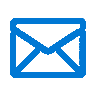
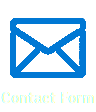
tidied up css, improved accessibility

diff --git a/src/Components/HeaderSection.js b/src/Components/HeaderSection.js
@@ -14,10 +14,10 @@ const Links = ({showForm, setShowForm}) => {
         <AboutMe />
         <br />
         <nav>
-        <ul>
-            <li><a href="https://github.com/aagb1884"><img src="images/icons8-github-96.png" alt="github" style={{ width: '50%' }} ></img></a></li>
-            <li><a href="https://www.linkedin.com/in/andrew-blair-3604a0273/"><img src="images/icons8-linkedin-96.png" alt="linked-in" style={{ width: '50%' }} ></img></a></li>
-            <li><button className='contact-form-header-button' onClick={displayForm} ><img src="images/icons8-email-96.png" alt="contact-form" style={{ width: '50%' }} ></img></button></li>
+        <ul className="links">
+            <li><a href="https://github.com/aagb1884"><img src="images/icons8-github-96.png" title="Github Profile" alt="github" style={{ width: '50%' }} ></img></a></li>
+            <li><a href="https://www.linkedin.com/in/andrew-blair-3604a0273/"><img src="images/icons8-linkedin-96.png" title="LinkedIn Profile" alt="linked-in" style={{ width: '50%' }} ></img></a></li>
+            <li><button className='contact-form-header-button' onClick={displayForm} ><img src="images/icons8-email-96.png" title="Contact Form" alt="contact-form" style={{ width: '50%' }} ></img></button></li>
         </ul>  
         </nav>
         <br />

diff --git a/src/Components/AppsFolder/BigFinishGenerator/BFApp.css b/src/Components/AppsFolder/BigFinishGenerator/BFApp.css
@@ -25,7 +25,7 @@
   position: fixed;
   z-index:1;
   width: 100%;
-  height: 150px;
+  height: 125px;
   top: 0;
   background-color: #972C34;
   color: white;
@@ -65,13 +65,15 @@ header > h3 {
 .line {
   margin: 10px;
   font-size: 5rem;
-  padding-bottom: 0.6%;
+  padding-bottom: 0.1%;
   font-weight: lighter;
 }
 
 .clear-all-button{
   margin-top: 5px;
   background-color: #972C34;
+  color: white;
+  padding: 5px;
 }
 
 .randomiser {
@@ -129,18 +131,20 @@ img.location-gif{
   position: fixed;
   bottom: 0;
   width: 100%;
-  height: 100px;
+  height: 70px;
   z-index: 999;
 }
 
 
 .bfbutton{
   background-color: #972C34;
+  color: white;
   width: 200px;
   position: relative;
   top: 0;
   left: 0;
   margin-bottom: 5px;
+  padding: 5px;
 }
 
 .randomiser-buttons{
@@ -151,7 +155,7 @@ img.location-gif{
 
 .main-character, .location, .villain, .supporting-character{
   text-align: center;
-  line-height: 1.5;
+  line-height: 1;
 }
 
 @media only screen and (max-width: 650px) {

diff --git a/src/Components/AppsFolder/AppsLandingPage.js b/src/Components/AppsFolder/AppsLandingPage.js
@@ -71,7 +71,7 @@ const AppsLandingPage = () => {
                 </section>
             </div>
             <div className="ko-fi">
-                 <a href='https://ko-fi.com/W7W1URM7B' target='_blank'><img height='36' src='https://storage.ko-fi.com/cdn/kofi4.png?v=3' border='0' alt='Buy Me a Coffee at ko-fi.com' /></a>
+                 <a href='https://ko-fi.com/W7W1URM7B' target='_blank' rel="noopener noreferrer"><img height='36' src='https://storage.ko-fi.com/cdn/kofi4.png?v=3' border='0' alt='Buy Me a Coffee at ko-fi.com' /></a>
             </div>
             <div className="landing-footer">
             <Footer />  

diff --git a/src/Components/AppsFolder/WesleySnopes/Containers/WesleyContainer.js b/src/Components/AppsFolder/WesleySnopes/Containers/WesleyContainer.js
@@ -33,6 +33,8 @@ const WesleyContainer = () => {
     const [userQuery, setUserQuery] = useState('');
     const [buttonClicked, setButtonClicked] = useState(false);
 
+    console.log(userQuery)
+
     function get_random_response() {
         const randomIndex = Math.floor(Math.random()* imgsrcs.length);
         const selectedImage = imgsrcs[randomIndex]
@@ -52,7 +54,7 @@ const WesleyContainer = () => {
 
       useEffect(()=>{
         if (buttonClicked) {
-            get_random_response()
+            get_random_response();
         }
     }, [get_random_response])
 

diff --git a/src/Components/TabComponent/Tabs.js b/src/Components/TabComponent/Tabs.js
@@ -40,7 +40,7 @@ const Tabs = () => {
         </div>
       </div>
       <div className="ko-fi">
-        <a href='https://ko-fi.com/W7W1URM7B' target='_blank'><img height='36' src='https://storage.ko-fi.com/cdn/kofi4.png?v=3' border='0' alt='Buy Me a Coffee at ko-fi.com' /></a>
+        <a href='https://ko-fi.com/W7W1URM7B' target='_blank' rel="noreferrer"><img height='36' src='https://storage.ko-fi.com/cdn/kofi4.png?v=3' border='0' alt='Buy Me a Coffee at ko-fi.com' /></a>
         </div>
     </div>
   );

diff --git a/src/App.css b/src/App.css
@@ -32,6 +32,10 @@ font-size: 50px;
   text-align: center;
   }
 
+.links{
+  justify-content: center;
+  margin-left: 15px;
+}
 .header-section > nav > ul {
   list-style: none;
   display: flex;
@@ -326,6 +330,9 @@ li{
 @media (max-width: 500px) {
   .slide-image {
     width: 500px;
+  }
+  .links{
+    margin-left: 75px;
   }
 }
 

diff --git a/public/index.html b/public/index.html
@@ -33,7 +33,7 @@
     <meta name="theme-color" content="#000000" />
     <meta
       name="portfolio"
-      content="andrew blair's porttfolio created using create-react-app"
+      content="andrew blair's portfolio created using create-react-app"
     />
     <link rel="manifest" href="%PUBLIC_URL%/manifest.json" />
   

diff --git a/src/Components/AppsFolder/WesleySnopes/WesleyApp.css b/src/Components/AppsFolder/WesleySnopes/WesleyApp.css
@@ -77,11 +77,15 @@
   font-size: xx-large;
   border-radius: 5px;
   box-shadow: 2px 4px #aa7012;
+  padding: 5px;
 }
 
 .clear-button{
   background-color:#ffb338;
   color: #1b1b1b;
+  max-width: 50px;
+  width: auto;
+  padding: 5px;
 }
 
 .wesley-image-section{

diff --git a/src/Components/AppsFolder/EurovisionBingo/Components/cliche.css b/src/Components/AppsFolder/EurovisionBingo/Components/cliche.css
@@ -417,6 +417,9 @@ header {
     height: 180%;
     
   }
+  .euro-btn {
+    font-size: large;
+   }
 }
 
 
@@ -427,9 +430,7 @@ header {
     .animate-character{
       min-height: 42px;
    }
-   .euro-btn{
-    font-size: large;
-   }
+   
   }
 .animate-sub
 {

diff --git a/src/Components/AppsFolder/EurovisionBingo/Components/ActiveButtons.js b/src/Components/AppsFolder/EurovisionBingo/Components/ActiveButtons.js
@@ -1,4 +1,3 @@
-import React, { useState } from 'react';
 import Button from './Button';
 
 const ActiveButtons = ({ cardArray, buttonStates, handleClick }) => {
